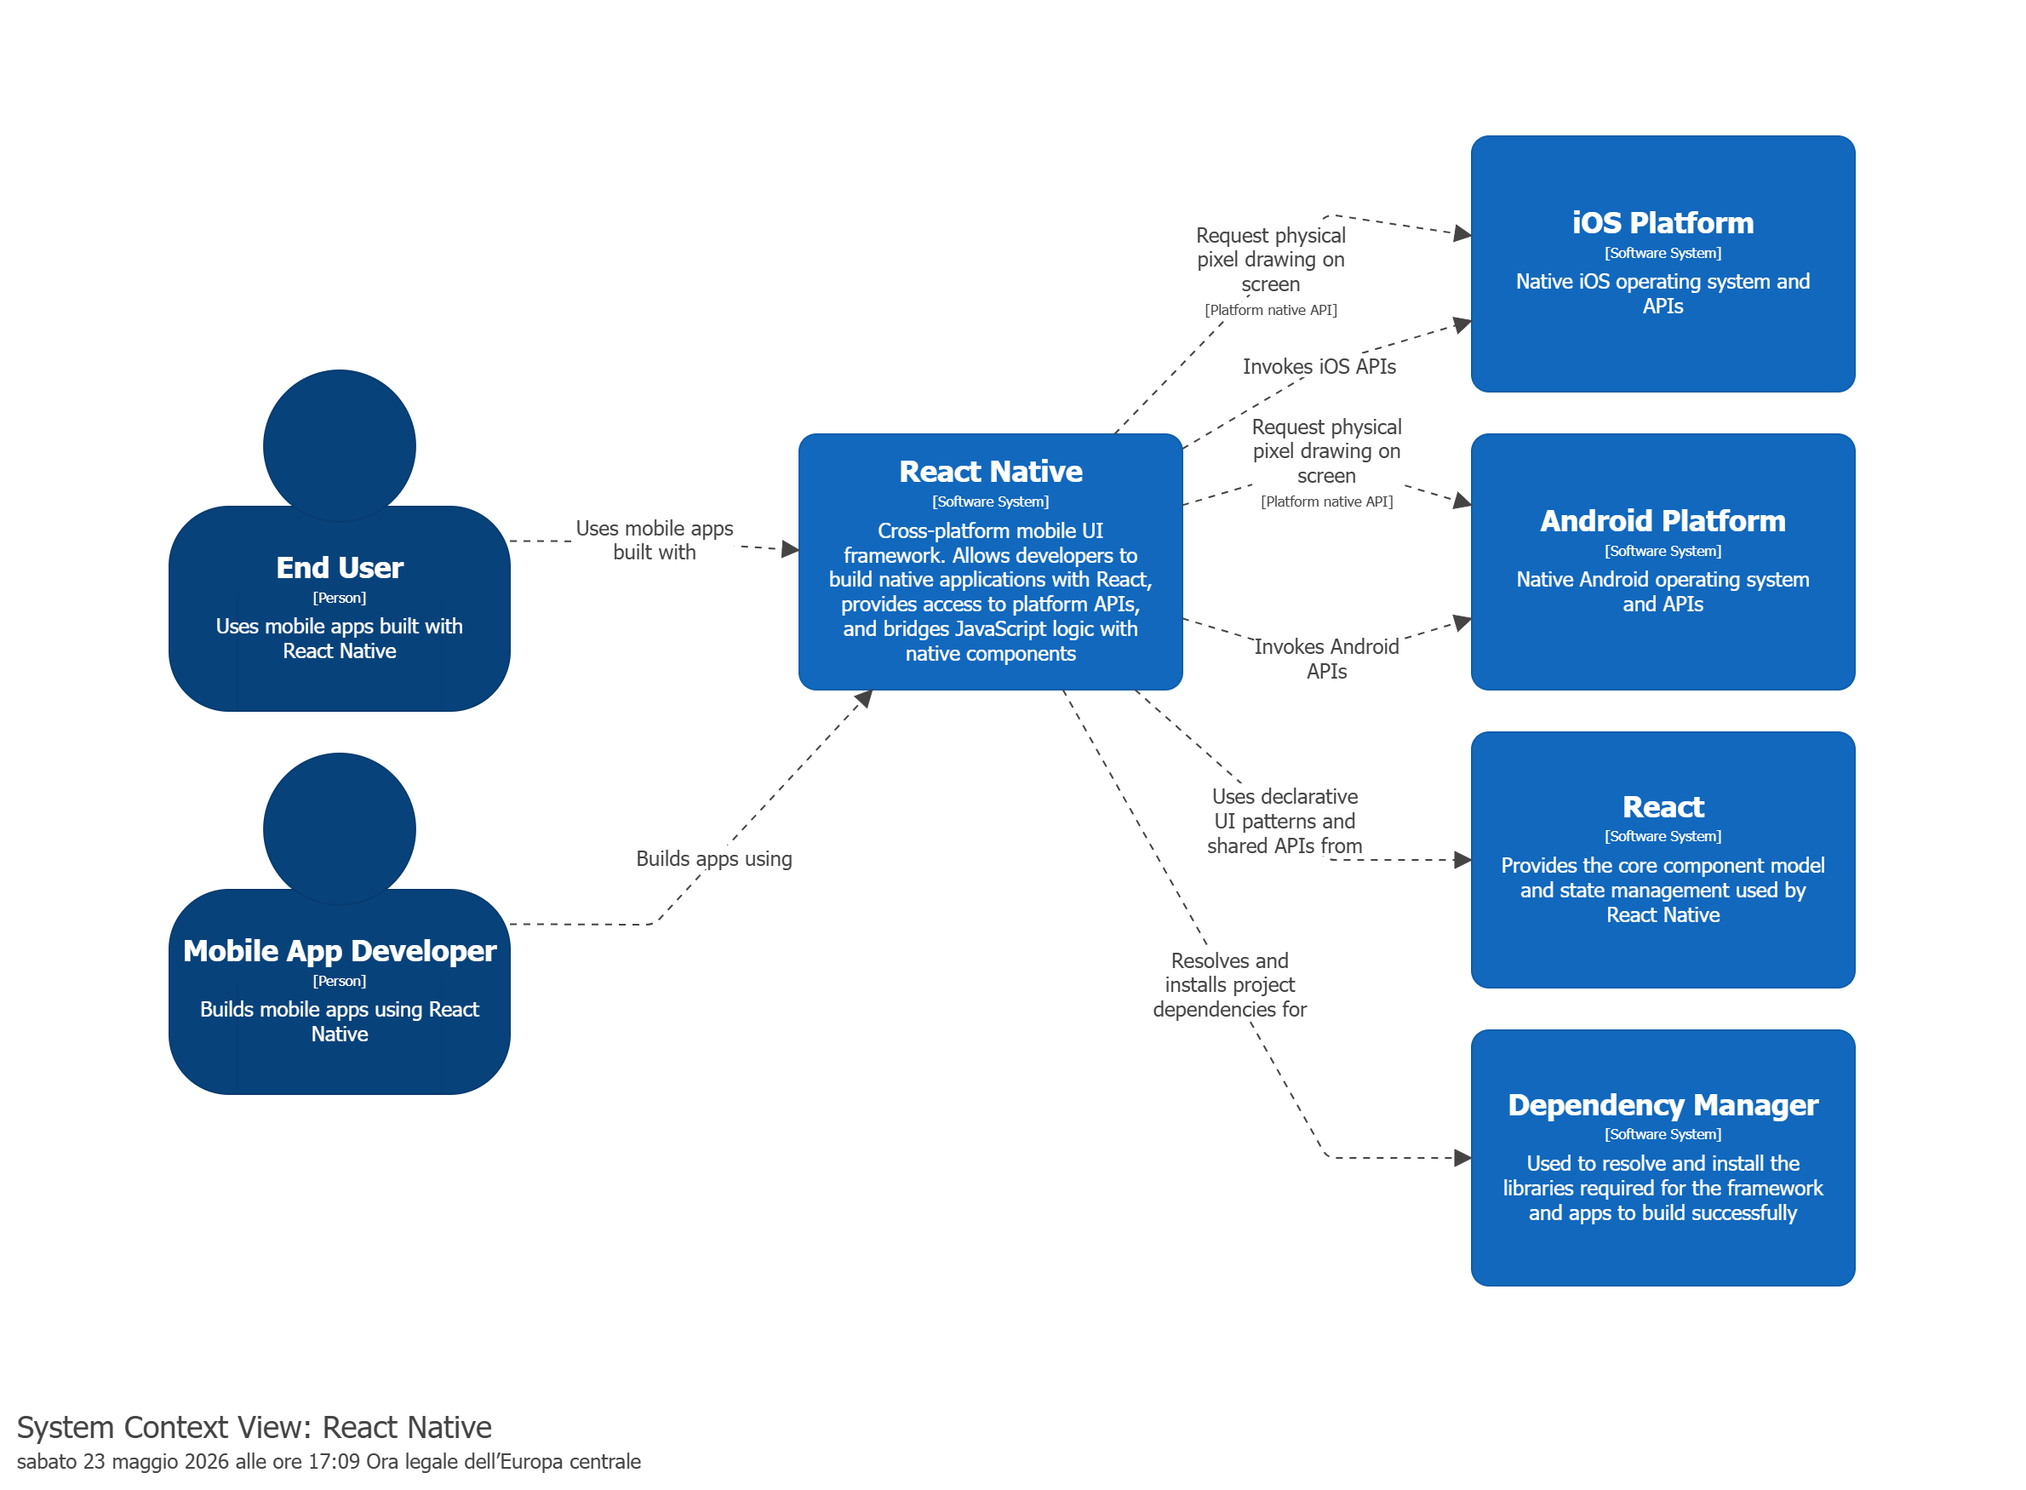
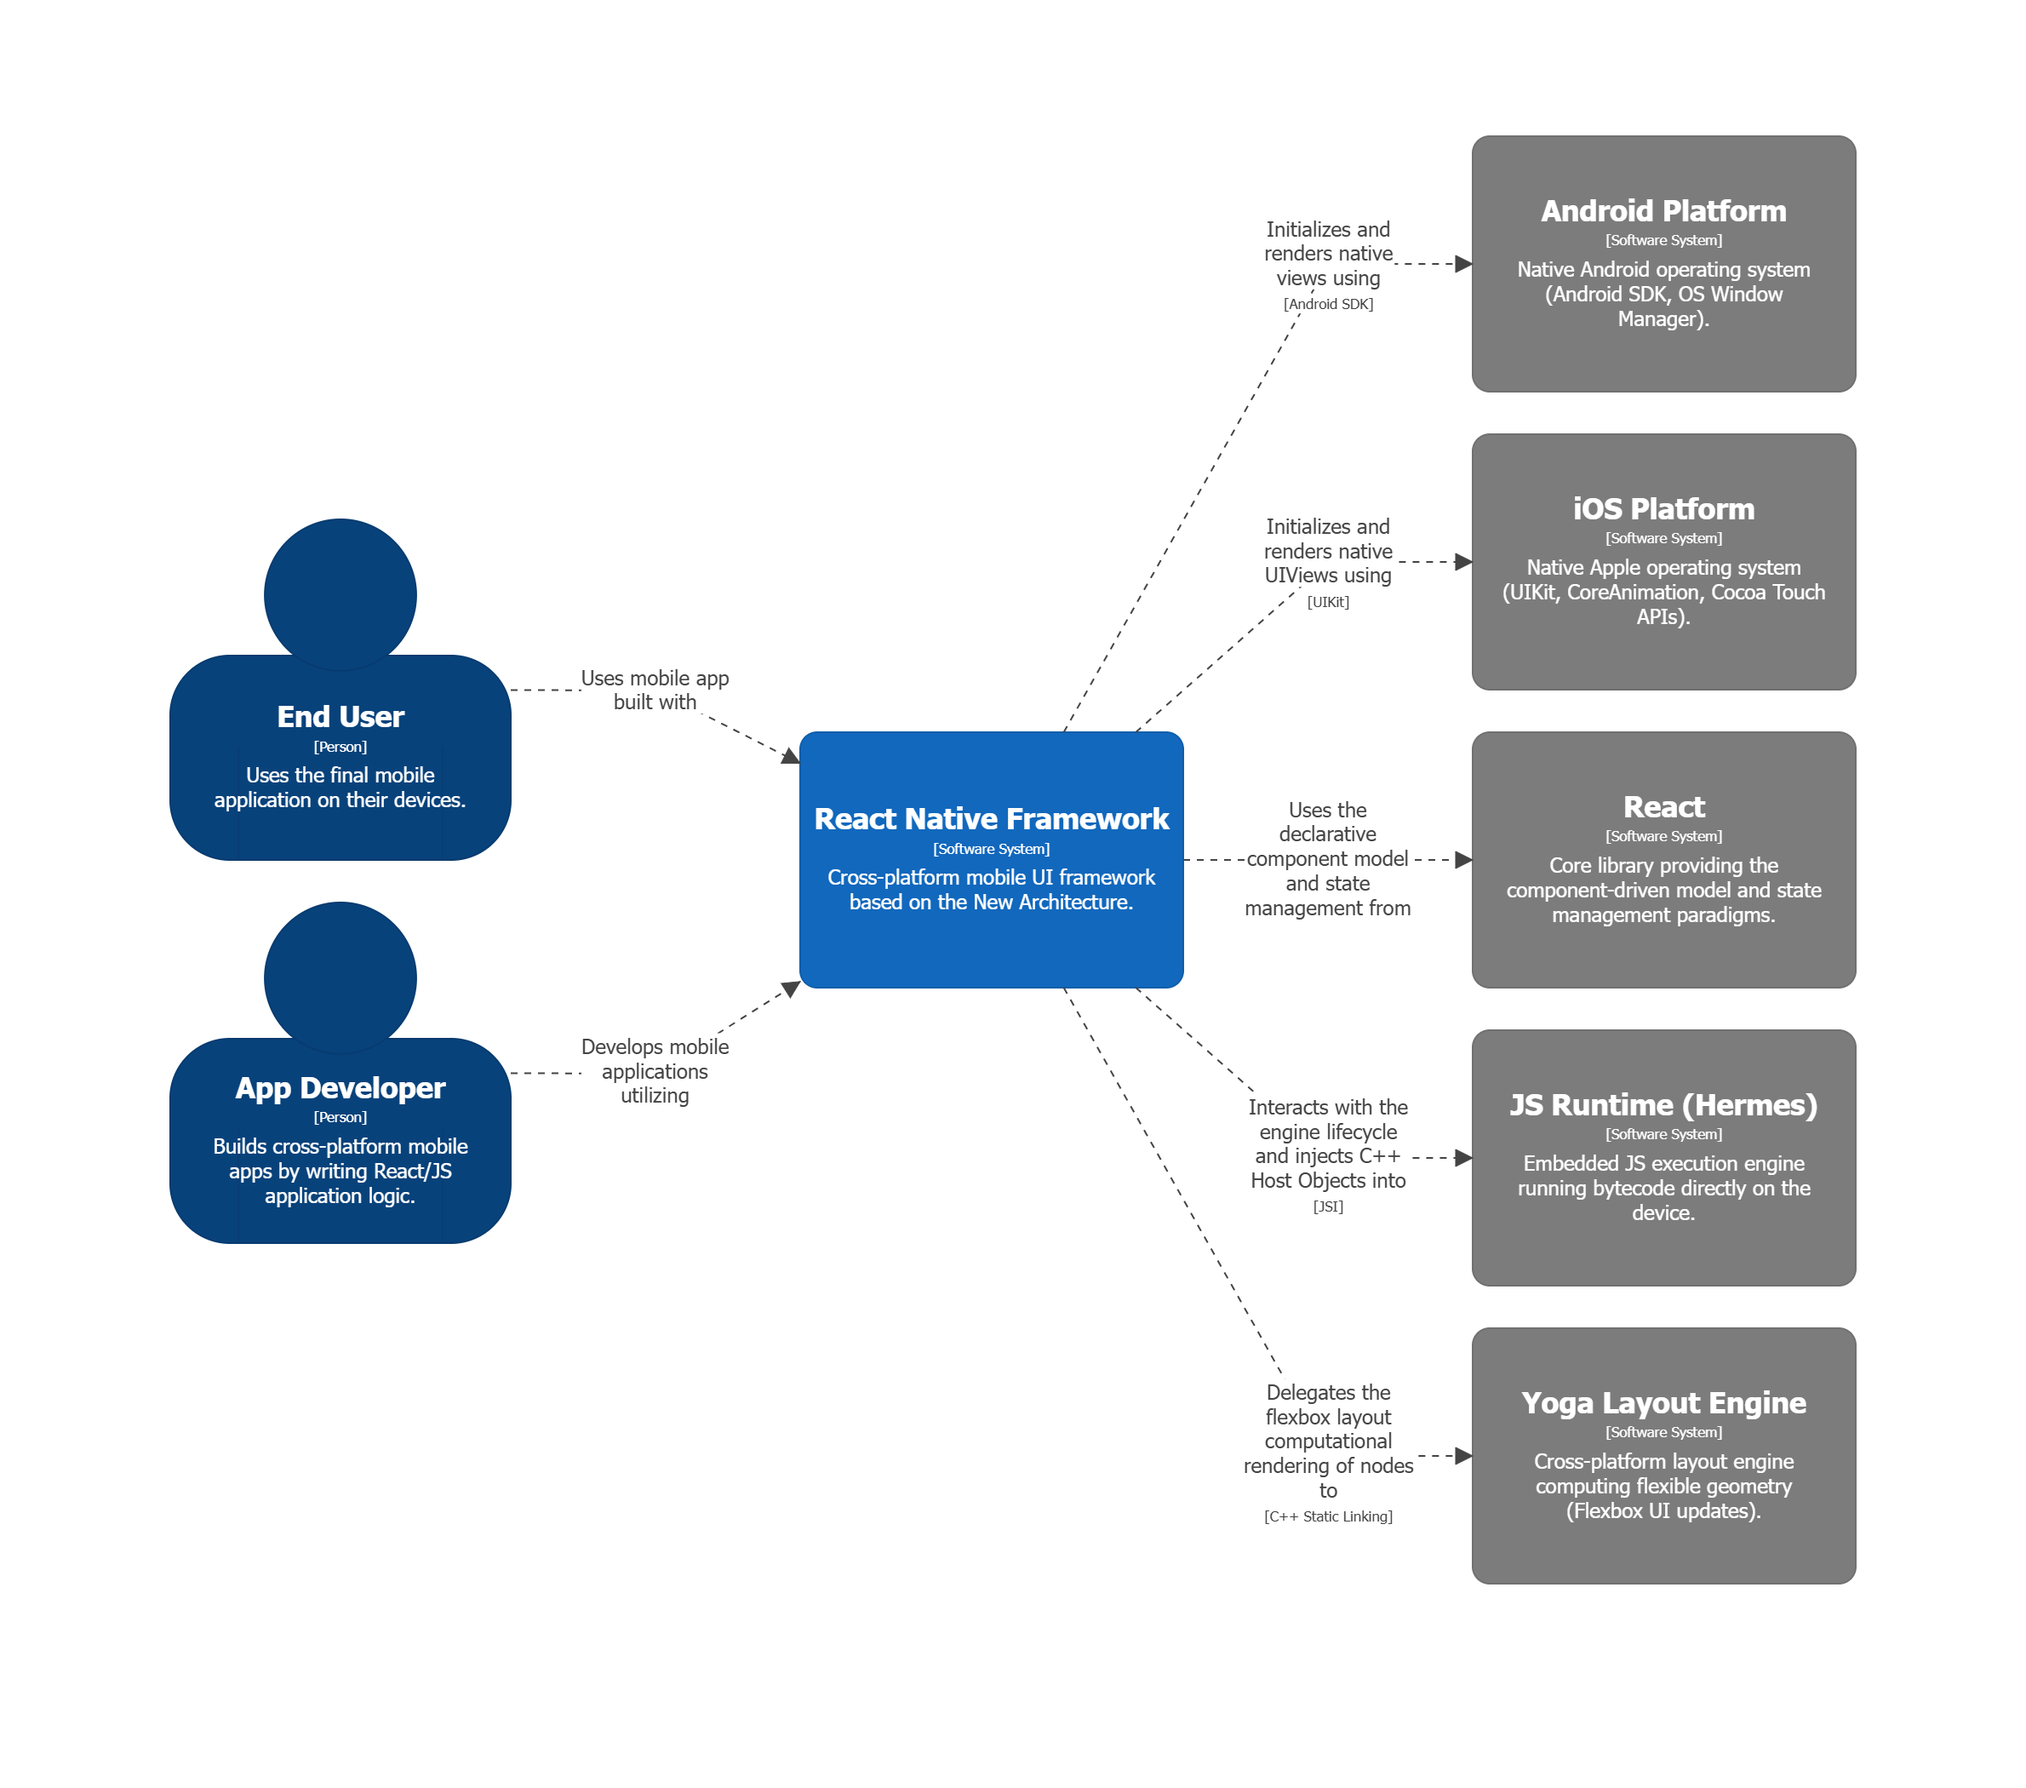
feat: update Software Architecture report with patched diagrams

diff --git a/reports/SoftwareArchitecture.md b/reports/SoftwareArchitecture.md
@@ -1,31 +1,13 @@
 # Software Architecture Report
 
-## Recommended Workflow
-To create and modify diagrams use this workflow:
-
-1. Edit the DSL in `diagrams/workspace.dsl`.
-2. Render the workspace in Structurizr (docker compose up).
-3. Export the diagrams as PNG or SVG.
-4. Save the exported files in `images/`.
-5. Insert the images into the related sections.
-
-## Purpose
-This report documents the software architecture of React Native using a C4 model approach. 
-
-## System Context Diagram
+## L1 - System Context Diagram
 
 ![System Context](../images/react-native-system-context.png)
 
-The system context diagram shows React Native as the central software system. It interacts mainly two human actors and several external software systems.
+## L2 - Container Diagram
 
-## Container Diagram
+![Container](../images/react-native-container.png)
 
-![Container Diagram](../images/react-native-container.png)
+## L3 - Component Diagram
 
-The container diagram decomposes React Native into the main runtime containers involved in execution.
-
-- JS Runtime Container: runs JavaScript code, manages application state, and computes the component tree.
-- Native Host Container: coordinates the application lifecycle, UI main thread, layout engine integration, and communication with the underlying operating system.
-- Android/iOS Platforms: represent the external native environments that ultimately render pixels on screen.
-
-The interaction between the two containers is primarily mediated by JSI. The JS Runtime sends rendering instructions to the Native Host, while the Native Host can notify user events back to the runtime. The Native Host then delegates the final drawing request to the platform-native APIs.
+![Component Diagram](../images/react-native-cpp-core-components.png)
